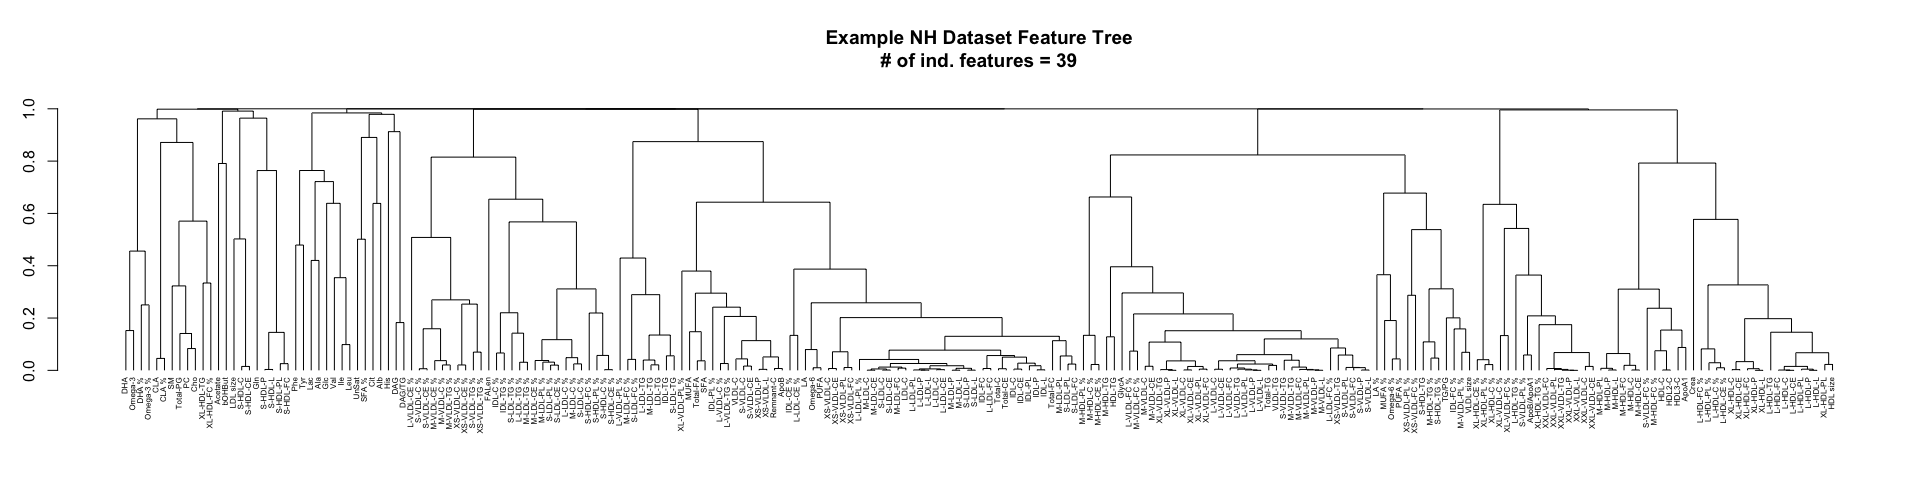
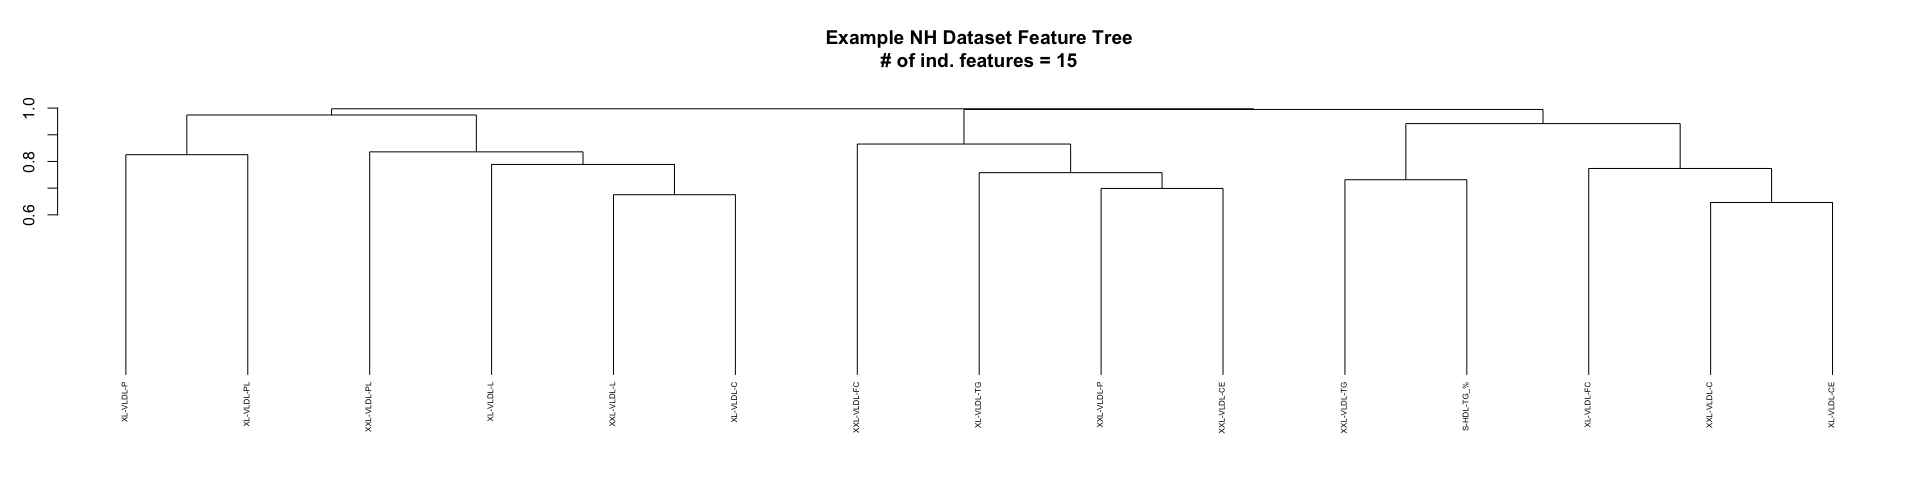
reknit

diff --git a/README.md b/README.md
@@ -64,7 +64,6 @@ mydata <-  Omiprep(data     = datain$data,
 
 ``` r
 # run QC
-<<<<<<< HEAD
 mydata <- mydata |> quality_control( source_layer               = "input", 
                                      sample_missingness         = 0.2, 
                                      feature_missingness        = 0.2, 
@@ -78,91 +77,85 @@ mydata <- mydata |> quality_control( source_layer               = "input",
                                      pc_outlier_sd              = 5, 
                                      sample_ids                 = NULL, 
                                      feature_ids                = NULL)
-=======
-mydata <- mydata |> quality_control()
->>>>>>> 8c00fb170cff757f4092fa7824470f236a976f74
 #> 
 #> ── Starting Omics QC Process ───────────────────────────────────────────────────
-#> ℹ Validating input parameters
-#> ✔ Validating input parameters [4ms]
-#> 
+#> ℹ Validating input parameters                              
+#> ℹ Validating input parameters                              ── Starting 'Omics QC Process ──────────────────────────────────────────────────
+#> ℹ Validating input parameters✔ Validating input parameters [9ms]
+#> ℹ Validating input parameters✔ Validating input parameters [7ms]
 #> ℹ Sample & Feature Summary Statistics for raw data
-<<<<<<< HEAD
-#> AF =  2
-#> ✔ Sample & Feature Summary Statistics for raw data [271ms]
-#> ℹ Copying input data to new 'qc' data layer✔ Copying input data to new 'qc' data layer [15ms]
-#> ℹ Assessing for extreme sample missingness >=80% - excluding 0 sample(s)✔ Assessing for extreme sample missingness >=80% - excluding 0 sample(s) [10ms]
-#> ℹ Assessing for extreme feature missingness >=80% - excluding 0 feature(s)✔ Assessing for extreme feature missingness >=80% - excluding 0 feature(s) [10m…
-#> ℹ Assessing for sample missingness at specified level of >=20% - excluding 0 sa…✔ Assessing for sample missingness at specified level of >=20% - excluding 2 sa…
+#> AF =  7
+#> ✔ Sample & Feature Summary Statistics for raw data [121ms]
+#> ℹ Copying input data to new 'qc' data layer✔ Copying input data to new 'qc' data layer [9ms]
+#> ℹ Assessing for extreme sample missingness >=80% - excluding 0 sample(s)✔ Assessing for extreme sample missingness >=80% - excluding 0 sample(s) [9ms]
+#> ℹ Assessing for extreme feature missingness >=80% - excluding 0 feature(s)✔ Assessing for extreme feature missingness >=80% - excluding 0 feature(s) [9ms]
+#> ℹ Assessing for sample missingness at specified level of >=20% - excluding 0 sa…✔ Assessing for sample missingness at specified level of >=20% - excluding 0 sa…
 #> ℹ Assessing for feature missingness at specified level of >=20% - excluding 0 f…✔ Assessing for feature missingness at specified level of >=20% - excluding 0 f…
 #> ℹ Calculating total sum abundance outliers at +/- 5 Sdev - excluding 0 sample(s)✔ Calculating total sum abundance outliers at +/- 5 Sdev - excluding 0 sample(s…
-#> ℹ Running sample data PCA outlier analysis at +/- 5 Sdev✔ Running sample data PCA outlier analysis at +/- 5 Sdev [8ms]
-=======
-#> ℹ Number of informative PCs (Scree acceleration factor): 2
-#> ℹ Sample & Feature Summary Statistics for raw data✔ Sample & Feature Summary Statistics for raw data [794ms]
-#> 
-#> ℹ Copying input data to new 'qc' data layer
-#> ✔ Copying input data to new 'qc' data layer [12ms]
-#> 
-#> ℹ Assessing for extreme sample missingness >=80% - excluding 0 sample(s)
-#> ✔ Assessing for extreme sample missingness >=80% - excluding 0 sample(s) [9ms]
-#> 
-#> ℹ Assessing for extreme feature missingness >=80% - excluding 0 feature(s)
-#> ✔ Assessing for extreme feature missingness >=80% - excluding 0 feature(s) [13m…
-#> 
-#> ℹ Assessing for sample missingness at specified level of >=20% - excluding 0 sa…
-#> ✔ Assessing for sample missingness at specified level of >=20% - excluding 0 sa…
-#> 
-#> ℹ Assessing for feature missingness at specified level of >=20% - excluding 0 f…
-#> ✔ Assessing for feature missingness at specified level of >=20% - excluding 7 f…
-#> 
-#> ℹ Calculating total sum abundance outliers at +/- 5 Sdev - excluding 0 sample(s)
-#> ✔ Calculating total sum abundance outliers at +/- 5 Sdev - excluding 0 sample(s…
-#> 
-#> ℹ Running sample data PCA outlier analysis at +/- 5 Sdev
-#> ✔ Running sample data PCA outlier analysis at +/- 5 Sdev [8ms]
-#> 
->>>>>>> 8c00fb170cff757f4092fa7824470f236a976f74
+#> ℹ Running sample data PCA outlier analysis at +/- 5 Sdev✔ Running sample data PCA outlier analysis at +/- 5 Sdev [9ms]
 #> ℹ Sample PCA outlier analysis - re-identify feature independence and PC outlier…
-#> ℹ Number of informative PCs (Scree acceleration factor): 2
-#> ℹ Sample PCA outlier analysis - re-identify feature independence and PC outlier…ℹ Sample PCA outlier analysis - re-identify feature independence and PC outlier…
-#> ! The stated max PCs [max_num_pcs=10] to use in PCA outlier assessment is greater than the number of available informative PCs [2]
+#> AF =  7
+#> ℹ Sample PCA outlier analysis - re-identify feature independence and PC outlier…                                                                                 ! The stated max PCs [max_num_pcs=10] to use in PCA outlier assessment is greater than the number of available informative PCs [7]
 #> ℹ Sample PCA outlier analysis - re-identify feature independence and PC outlier…✔ Sample PCA outlier analysis - re-identify feature independence and PC outlier…
-#> 
 #> ℹ Creating final QC dataset...
-#> ℹ Number of informative PCs (Scree acceleration factor): 2
+#> AF =  7
+#>                                
+#> ℹ Creating final QC dataset...                               ── Step timings ──
+#> ℹ Creating final QC dataset...                               
 #> ℹ Creating final QC dataset...
-#> ℹ Creating final QC dataset...── Step timings ──
+#>                         step seconds  pct
+#>                   validation    0.01  2.5
+#>                summarise_raw    0.09 22.2
+#>                   copy_layer    0.00  0.0
+#>   extreme_sample_missingness    0.00  0.0
+#>  extreme_feature_missingness    0.00  0.0
+#>           sample_missingness    0.00  0.0
+#>          total_sum_abundance    0.00  0.0
+#>                summarise_pca    0.12 29.6
+#>              summarise_final    0.06 14.8
+#>                        total    0.40 98.8
+#> ✔ Creating final QC dataset... [79ms]
+#> ℹ 'Omics QC Process Completed✔ 'Omics QC Process Completed [10ms]
+
+mydata <- mydata |> quality_control()
+#> ── Starting Omics QC Process ───────────────────────────────────────────────────
+#> ℹ Validating input parameters                              
+#> ℹ Validating input parameters                              ── Starting 'Omics QC Process ──────────────────────────────────────────────────
+#> ℹ Validating input parameters✔ Validating input parameters [5ms]
+#> ℹ Validating input parameters✔ Validating input parameters [6ms]
+#> ℹ Sample & Feature Summary Statistics for raw data
+#> AF =  7
+#> ✔ Sample & Feature Summary Statistics for raw data [70ms]
+#> ℹ Copying input data to new 'qc' data layer✔ Copying input data to new 'qc' data layer [9ms]
+#> ℹ Assessing for extreme sample missingness >=80% - excluding 0 sample(s)✔ Assessing for extreme sample missingness >=80% - excluding 0 sample(s) [9ms]
+#> ℹ Assessing for extreme feature missingness >=80% - excluding 0 feature(s)✔ Assessing for extreme feature missingness >=80% - excluding 0 feature(s) [8ms]
+#> ℹ Assessing for sample missingness at specified level of >=20% - excluding 0 sa…✔ Assessing for sample missingness at specified level of >=20% - excluding 0 sa…
+#> ℹ Assessing for feature missingness at specified level of >=20% - excluding 0 f…✔ Assessing for feature missingness at specified level of >=20% - excluding 0 f…
+#> ℹ Calculating total sum abundance outliers at +/- 5 Sdev - excluding 0 sample(s)✔ Calculating total sum abundance outliers at +/- 5 Sdev - excluding 0 sample(s…
+#> ℹ Running sample data PCA outlier analysis at +/- 5 Sdev✔ Running sample data PCA outlier analysis at +/- 5 Sdev [9ms]
+#> ℹ Sample PCA outlier analysis - re-identify feature independence and PC outlier…
+#> AF =  7
+#> ℹ Sample PCA outlier analysis - re-identify feature independence and PC outlier…                                                                                 ! The stated max PCs [max_num_pcs=10] to use in PCA outlier assessment is greater than the number of available informative PCs [7]
+#> ℹ Sample PCA outlier analysis - re-identify feature independence and PC outlier…✔ Sample PCA outlier analysis - re-identify feature independence and PC outlier…
 #> ℹ Creating final QC dataset...
+#> AF =  7
+#>                                
+#> ℹ Creating final QC dataset...                               ── Step timings ──
+#> ℹ Creating final QC dataset...                               
 #> ℹ Creating final QC dataset...
 #>                         step seconds   pct
-<<<<<<< HEAD
-#>                   validation    0.01   1.2
-#>                summarise_raw    0.26  31.7
-=======
-#>                   validation    0.00   0.0
-#>                summarise_raw    0.79  32.9
->>>>>>> 8c00fb170cff757f4092fa7824470f236a976f74
+#>                   validation    0.01   3.4
+#>                summarise_raw    0.06  20.1
 #>                   copy_layer    0.00   0.0
 #>   extreme_sample_missingness    0.00   0.0
-#>  extreme_feature_missingness    0.01   0.4
+#>  extreme_feature_missingness    0.00   0.0
 #>           sample_missingness    0.00   0.0
 #>          total_sum_abundance    0.00   0.0
-<<<<<<< HEAD
-#>                summarise_pca    0.25  30.5
-#>              summarise_final    0.19  23.2
-#>                        total    0.82 100.1
-#> ✔ Creating final QC dataset... [210ms]
-#> ℹ 'Omics QC Process Completed✔ 'Omics QC Process Completed [12ms]
-=======
-#>                summarise_pca    0.77  32.1
-#>              summarise_final    0.73  30.4
-#>                        total    2.40 100.0
-#> ✔ Creating final QC dataset... [757ms]
-#> 
-#> ℹ 'Omics QC Process Completed
-#> ✔ 'Omics QC Process Completed [9ms]
->>>>>>> 8c00fb170cff757f4092fa7824470f236a976f74
+#>                summarise_pca    0.07  23.5
+#>              summarise_final    0.07  23.5
+#>                        total    0.30 100.7
+#> ✔ Creating final QC dataset... [86ms]
+#> ℹ 'Omics QC Process Completed✔ 'Omics QC Process Completed [8ms]
 ```
 
 ### View a summary of the Omiprep object
@@ -172,8 +165,8 @@ mydata <- mydata |> quality_control()
 summary(mydata)
 #> Omiprep Object Summary
 #> --------------------------
-#> Samples      : 150
-#> Features     : 229
+#> Samples      : 50
+#> Features     : 15
 #> Data Layers  : 2
 #> Layer Names  : input, qc
 #> 
@@ -181,12 +174,12 @@ summary(mydata)
 #> Feature Summary Layers: input, qc
 #> 
 #> Sample Annotation (metadata):
-#>   Columns: 7
-#>   Names  : sample_id, high_pyruvate, high_lactate, low_glutamine__high_glutamate, plasma_sample, reason_excluded, excluded
+#>   Columns: 10
+#>   Names  : sample_id, high_pyruvate, high_lactate, low_glutamine__high_glutamate, plasma_sample, reason_excluded.x, excluded.x, reason_excluded.y, excluded.y, excluded
 #> 
 #> Feature Annotation (metadata):
-#>   Columns: 3
-#>   Names  : feature_id, reason_excluded, excluded
+#>   Columns: 6
+#>   Names  : feature_id, reason_excluded.x, excluded.x, reason_excluded.y, excluded.y, excluded
 #> 
 #> Exclusion Codes Summary:
 #> 
@@ -204,7 +197,7 @@ summary(mydata)
 #> -----------------
 #> user_excluded                    | 0
 #> extreme_feature_missingness      | 0
-#> user_defined_feature_missingness | 7
+#> user_defined_feature_missingness | 0
 #> user_defined_feature_skewness    | 0
 ```
 
